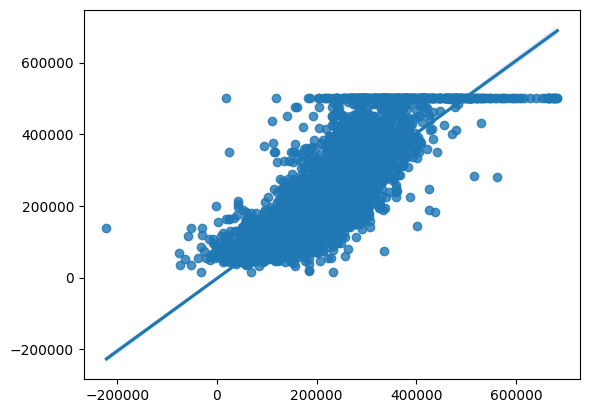
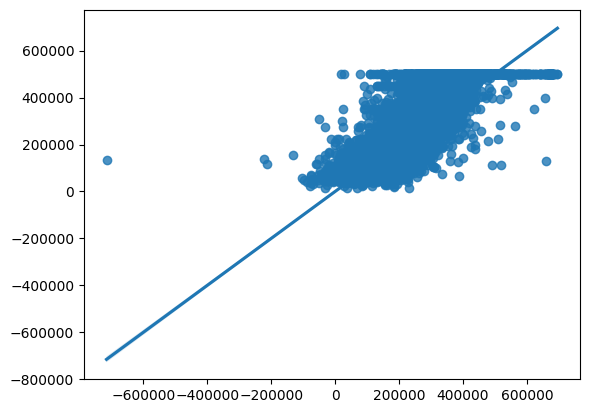
Updating model 1

diff --git a/model1.md b/model1.md
@@ -22,6 +22,12 @@ We also calculated the average value of each of the parameters, using this avera
 
 ![Score Distribution with average Parameters](assets/Model1/Average%20Score%20Distribution.png)
 
+Also, we created a Regression plot with the predicted values compared to the actual values using the entire dataset, this because the average parameters should be influenced equally by the entire dataset, out of this we got the following plot:
+
+![Regplot image](assets/Model1/Regplot.png)
+
+We can see there are some huge outliers in the plot, but most points are clustered around the line of regression, also, the score we got comparing the regression to the entire dataset was 0.6465617542482369.
+
 Finally, we calculated the new average score and compared it to the average scores calculated in each iteration of the regression, improving the average by 0.0017014752125713573, and we can clearly see in the plot that the dispersion compared to the previos one was improved.
 
 Even though using the average values gave us a better performance, we still think that a linear regression is not a good choice of machine learning model for our dataset, this is because we didn't get an score greater than 0.7, so it doesn't really capture the behavior of the data adecuately, but it can be useful to get a quick estimation of the output and takes very little time to train compared to bigger models, so we think it did a decent job.

diff --git a/model1code.md b/model1code.md
@@ -104,9 +104,12 @@ Output:
 ```python
 regression.coef_ = np.array(averageParameters[:-1])
 regression.intercept_ = averageParameters[-1]
-ypred = regression.predict(dfTest[inputs]).flatten()
-yactu = dfTest[output].values
+ypred = regression.predict(df[inputs]).flatten()
+yactu = df[output].values
+regression.score(df[inputs], df[output])
 ```
+
+Output: 0.6465617542482369
 
 ```python
 sns.regplot(x=ypred, y=yactu)
